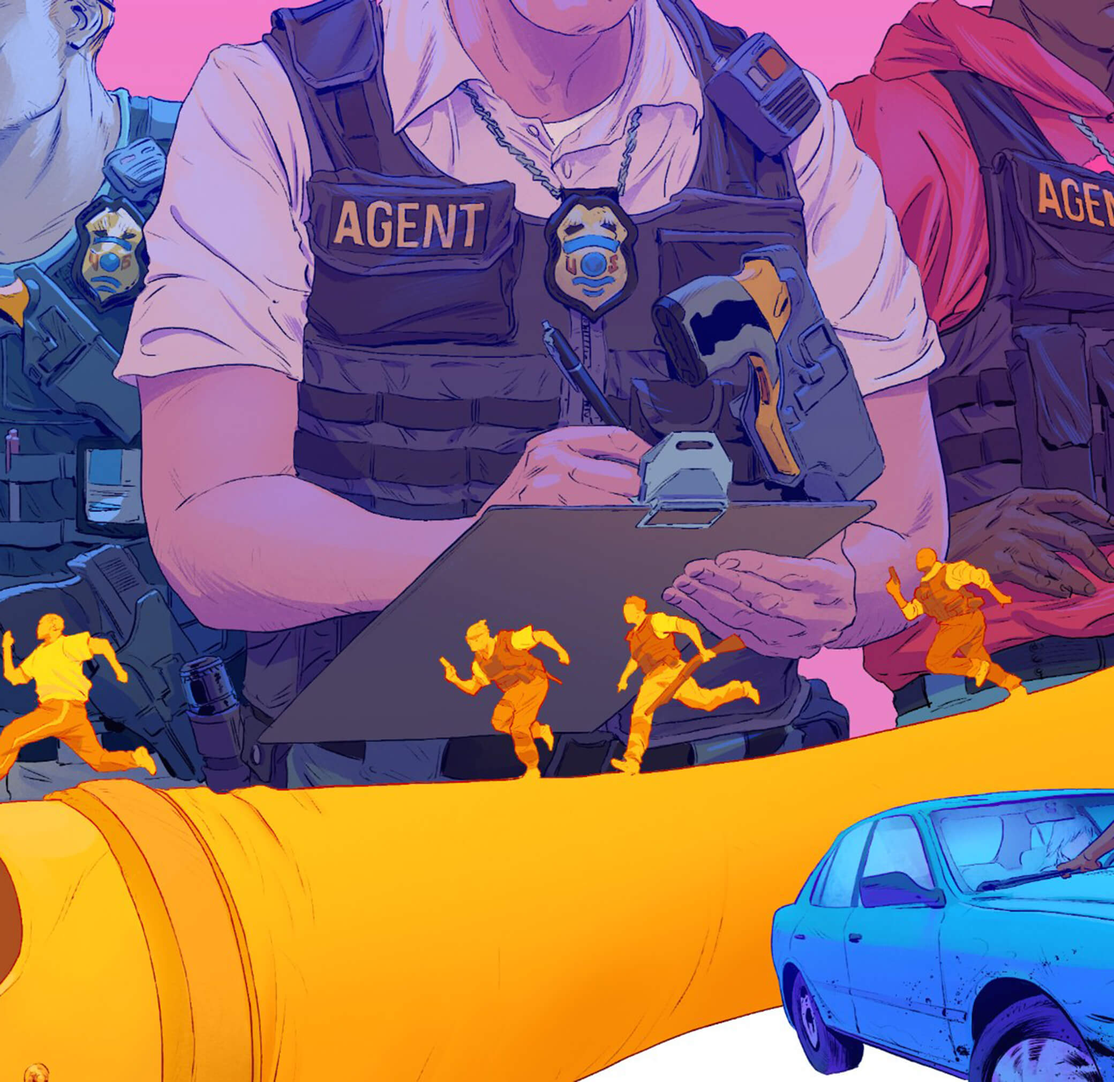
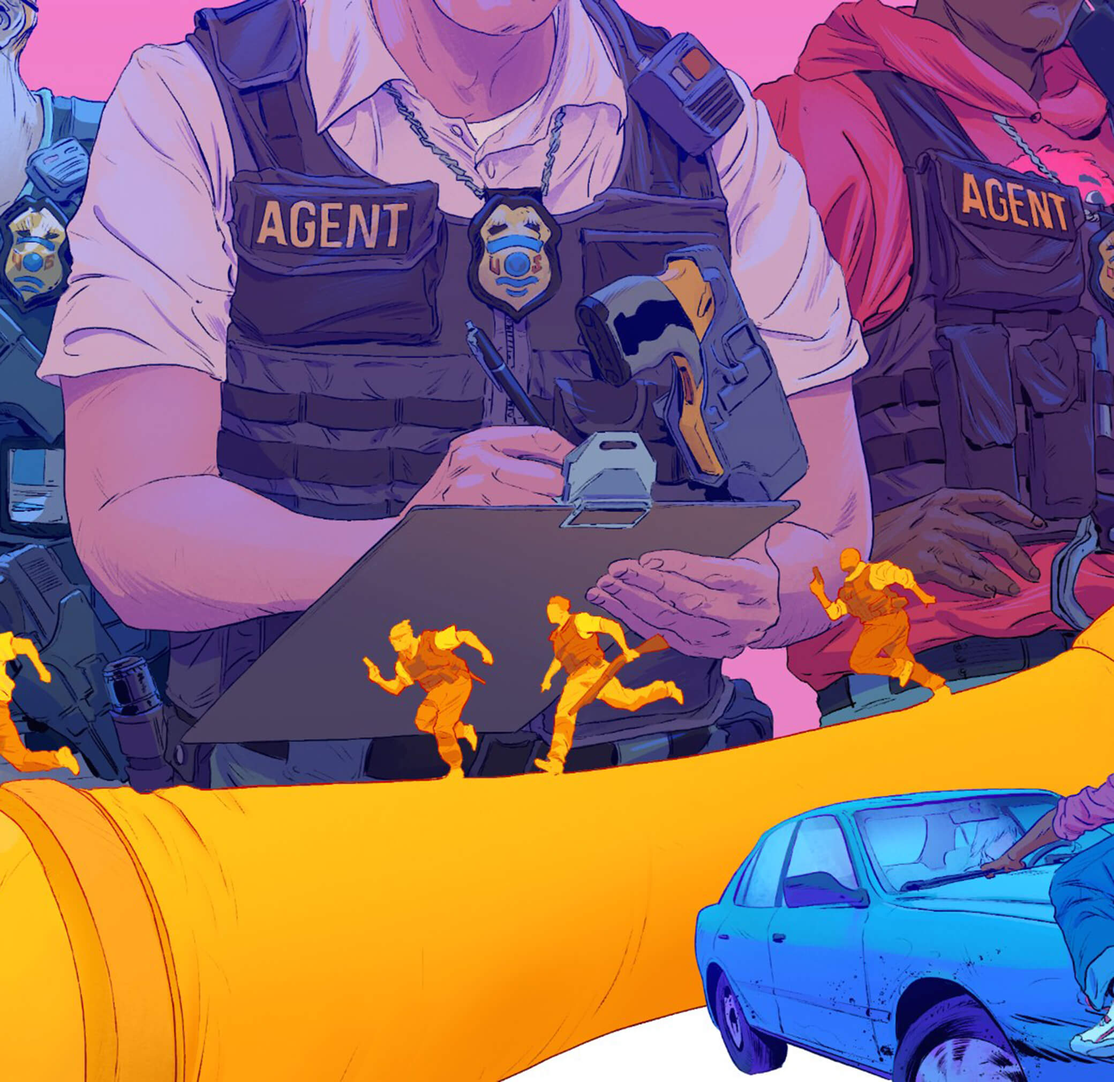
Replaced pictures from the project section with jpg image files.

diff --git a/app/index.html b/app/index.html
@@ -87,7 +87,7 @@
 
             <div class="projects__item">
 
-              <img class="lazyload img-block" sizes="(min-width: 970px) 1560px, 100vw" data-srcset="assets/images/image-1--small.png 315w, assets/images/image-1--small-hi-dpi.png 630w, assets/images/image-1--medium.png 520w, assets/images/image-1--medium-hi-dpi.png 1040w, assets/images/image-1--large.png 1560w, assets/images/image-1--large-hi-dpi.jpg 2080w"
+              <img class="lazyload img-block" sizes="(min-width: 970px) 1560px, 100vw" data-srcset="assets/images/image-1--small.jpg 315w, assets/images/image-1--small-hi-dpi.jpg 630w, assets/images/image-1--medium.jpg 520w, assets/images/image-1--medium-hi-dpi.jpg 1040w, assets/images/image-1--large.jpg 1560w, assets/images/image-1--large-hi-dpi.jpg 2080w"
                 alt="GQ Daily Newsletter Email">
 
               <div class="projects__info">
@@ -104,7 +104,7 @@
 
             <div class="projects__item">
 
-              <img class="lazyload img-block" sizes="(min-width: 970px) 1560px, 100vw" data-srcset="assets/images/image-3--small.png 315w, assets/images/image-3--small-hi-dpi.png 630w, assets/images/image-3--medium.png 520w, assets/images/image-3--medium-hi-dpi.png 1040w, assets/images/image-3--large.png 1560w, assets/images/image-3--large-hi-dpi.png 2080w"
+              <img class="lazyload img-block" sizes="(min-width: 970px) 1560px, 100vw" data-srcset="assets/images/image-3--small.jpg 315w, assets/images/image-3--small-hi-dpi.jpg 630w, assets/images/image-3--medium.jpg 520w, assets/images/image-3--medium-hi-dpi.jpg 1040w, assets/images/image-3--large.jpg 1560w, assets/images/image-3--large-hi-dpi.jpg 2080w"
                 alt="PlayStation VR HeadSet Landing Page">
 
               <div class="projects__info">
@@ -125,7 +125,7 @@
 
             <div class="projects__item">
 
-              <img class="lazyload img-block" sizes="(min-width: 970px) 1560px, 100vw" data-srcset="assets/images/image-2--small.png 315w, assets/images/image-2--small-hi-dpi.png 630w, assets/images/image-2--medium.png 520w, assets/images/image-2--medium-hi-dpi.png 1040w, assets/images/image-2--large.png 1560w, assets/images/image-2--large-hi-dpi.jpg 2080w"
+              <img class="lazyload img-block" sizes="(min-width: 970px) 1560px, 100vw" data-srcset="assets/images/image-2--small.jpg 315w, assets/images/image-2--small-hi-dpi.jpg 630w, assets/images/image-2--medium.jpg 520w, assets/images/image-2--medium-hi-dpi.jpg 1040w, assets/images/image-2--large.jpg 1560w, assets/images/image-2--large-hi-dpi.jpg 2080w"
                 alt="Nike Promotional Email">
 
 
@@ -143,7 +143,7 @@
 
             <div class="projects__item">
 
-              <img class="lazyload img-block" sizes="(min-width: 970px) 1560px, 100vw" data-srcset="assets/images/image-4--small.png 315w, assets/images/image-4--small-hi-dpi.png 630w, assets/images/image-4--medium.png 520w, assets/images/image-4--medium-hi-dpi.png 1040w, assets/images/image-4--large.png 1560w, assets/images/image-4--large-hi-dpi.png 2080w"
+              <img class="lazyload img-block" sizes="(min-width: 970px) 1560px, 100vw" data-srcset="assets/images/image-4--small.jpg 315w, assets/images/image-4--small-hi-dpi.jpg 630w, assets/images/image-4--medium.jpg 520w, assets/images/image-4--medium-hi-dpi.jpg 1040w, assets/images/image-4--large.jpg 1560w, assets/images/image-4--large-hi-dpi.jpg 2080w"
                 alt="Dollar Shave Club Cart Abandonment Email">
 
               <div class="projects__info">

diff --git a/app/assets/styles/modules/_page-section.css b/app/assets/styles/modules/_page-section.css
@@ -6,7 +6,11 @@
     padding-bottom: 20px;
 
     @media screen and (min-width: 768px){
-      padding-bottom: 30px;
+      padding-bottom: 40px;
+    }
+
+    @media screen and (min-width: 1921px){
+      padding-bottom: 50px;
     }
 
   }
@@ -15,8 +19,13 @@
     padding-bottom: 20px;
 
     @media screen and (min-width: 768px){
+      padding-bottom: 40px;
+    }
+
+    @media screen and (min-width: 1921px){
       padding-bottom: 90px;
     }
+
 
   }
 

diff --git a/app/assets/styles/modules/_intro.css b/app/assets/styles/modules/_intro.css
@@ -14,7 +14,7 @@
   }
 
   @media screen and (min-width: 1921px) {
-    padding: 160px 0px 110px 0px;
+    padding: 170px 0px 125px 0px;
   }
 
   &__small-heading {
